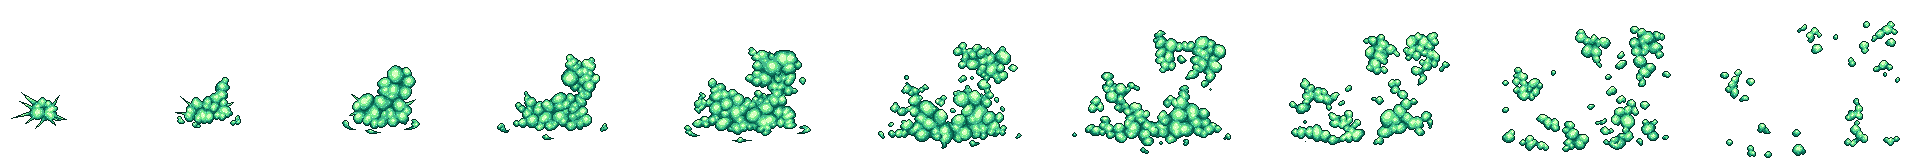
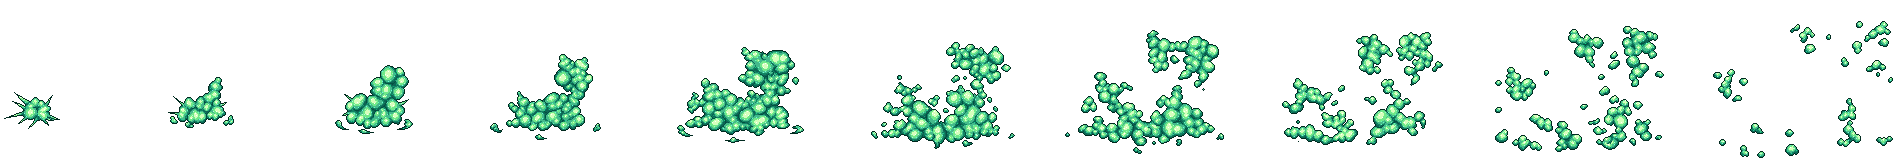
좀비중간보스 독 장판 스킬 구현

diff --git a/zombie_boss.py b/zombie_boss.py
@@ -7,6 +7,7 @@ import server
 from state_machine import StateMachine
 from coin import Coin
 from food import Food
+from poison import Poison
 
 # 보스 이동 속도 및 설정
 PIXEL_PER_METER = (10.0 / 0.3)
@@ -168,28 +169,68 @@ class BossAttack:
             return l - 20, b, r - 20, t
 
 
+# zombie_boss.py 상단에 import 추가
+from poison import Poison
+
+
+# ... (기존 코드 생략) ...
+
 class BossSkill:
     def __init__(self, boss):
         self.boss = boss
         self.image = load_image('./적/좀비중간보스/Poison.png')
         self.frames = BOSS_ANIMATION_DATA['Poison']
+        self.has_spawned = False
 
     def enter(self, e):
         self.boss.dir = 0
         self.boss.frame = 0.0
         self.boss.last_skill_time = get_time()
+        self.has_spawned = False
 
     def do(self):
         self.boss.frame = (self.boss.frame + FRAMES_PER_ACTION * ACTION_PER_TIME * game_framework.frame_time)
+
+        # 애니메이션 중간쯤(예: 프레임 3)에 독 생성
+        if int(self.boss.frame) == 3 and not self.has_spawned:
+            self.spawn_poison()
+            self.has_spawned = True
+
         if self.boss.frame >= len(self.frames):
             self.boss.frame = len(self.frames) - 1
             self.boss.state_machine.handle_state_event(('TIMEOUT', None))
 
-    def exit(self, e): pass
+    def exit(self, e):
+        pass
 
-    def draw(self): self.boss.draw_image(self.image, self.frames)
+    def draw(self):
+        self.boss.draw_image(self.image, self.frames)
 
-    def get_bb(self): return self.boss.get_bb_rect()
+    def get_bb(self):
+        return self.boss.get_bb_rect()
+
+    def spawn_poison(self):
+        import random
+        # 플레이어(girl)의 현재 위치를 타겟으로 설정
+        target_x = self.boss.girl.x
+
+        # 3개 정도의 독 장판을 플레이어 주변에 생성
+        for _ in range(3):
+            # 플레이어 위치 기준 ±100 범위 내 랜덤 생성
+            offset = random.randint(-100, 100)
+            spawn_x = target_x + offset
+
+            # 맵 밖으로 나가지 않도록 clamp (맵 크기 0~1600 가정)
+            spawn_x = clamp(50, spawn_x, 1550)
+
+            # 바닥 높이 (Girl의 바닥 y값인 150보다 살짝 아래로 조정하여 자연스럽게)
+            spawn_y = 130
+
+            poison = Poison(spawn_x, spawn_y)
+            game_world.add_object(poison, 4)
+
+            # 생성된 독 객체를 충돌 그룹에 등록
+            game_world.add_collision_pair('girl:poison', None, poison)
 
 
 class BossHurt:

diff --git a/poison.py b/poison.py
@@ -1,0 +1,45 @@
+from pico2d import *
+import game_world
+import game_framework
+
+
+class Poison:
+    image = None
+    sizes = [(0,65), (163,74), (330,86), (484,120),(671,136),
+             (866,154),(1058,169),(1275,171),(1488,180),(1706,193)]
+
+    def __init__(self, x, y, duration=3.0, damage=5):
+        self.x, self.y = x, y
+        self.duration = duration
+        self.damage = damage
+        self.frame = 0.0
+
+        if Poison.image is None:
+            Poison.image = load_image('./이펙트/독/Posion.png')
+
+    def update(self):
+        self.x += game_world.scroll_speed * game_framework.frame_time
+
+        self.frame = (self.frame + 5.0 * game_framework.frame_time) % len(self.sizes)
+
+        self.duration -= game_framework.frame_time
+        if self.duration <= 0:
+            game_world.remove_object(self)
+
+    def draw(self):
+        idx = int(self.frame)
+        if idx >= len(self.sizes): idx = 0
+
+        left, width = self.sizes[idx]
+        bottom = 0
+        height = 158
+
+        Poison.image.clip_draw(left, bottom, width, height, self.x, self.y)
+
+        draw_rectangle(*self.get_bb())
+
+    def get_bb(self):
+        return self.x - 100, self.y - 60, self.x + 100, self.y + 60
+
+    def handle_collision(self, group, other):
+        pass

diff --git a/girl.py b/girl.py
@@ -566,6 +566,7 @@ class Girl:
 
         self.last_attack_time = 0.0
         self.attack_cooldown = 0.5
+        self.last_poison_time = 0.0
         self.last_hit_time = 0.0
         self.hit_cooldown = 0.5
 
@@ -768,6 +769,31 @@ class Girl:
             return
 
         if current_time < self.buff_end_time:
+            return
+
+        if group == 'girl:poison':
+            if current_time - self.last_poison_time < 0.5:
+                return
+
+            dmg_multiplier = 1.0
+            if get_time() < self.buffs['defense']['timer']:
+                dmg_multiplier = self.buffs['defense']['value']
+
+            damage = 0
+            if hasattr(other, 'damage'):
+                damage = other.damage * dmg_multiplier
+            else:
+                damage = 5 * dmg_multiplier
+
+            self.hp -= damage
+            self.last_poison_time = current_time
+
+            print(f"독 데미지! HP: {self.hp}")
+
+            if self.hp <= 0:
+                self.hp = 0
+                self.state_machine.handle_state_event(('HP_IS_ZERO', None))
+
             return
 
         if current_time - self.last_hit_time < self.hit_cooldown:

diff --git a/play_mode.py b/play_mode.py
@@ -62,6 +62,7 @@ def init():
     game_world.add_collision_pair('fire:girl', None, girl)
     game_world.add_collision_pair('girl:coin', girl, None)
     game_world.add_collision_pair('girl:food', girl, None)
+    game_world.add_collision_pair('girl:poison', girl, None)
 
     font = load_font('ENCR10B.TTF', 16)
     inventory_font = load_font('ENCR10B.TTF', 25)
@@ -102,6 +103,7 @@ def init():
 
     if item_info_font is None:
         item_info_font = load_font('ChangwonDangamRound.ttf', 15)
+
 
     hovered_item_info = None
 

diff --git a/stage2_mode.py b/stage2_mode.py
@@ -75,6 +75,7 @@ def init():
     game_world.add_collision_pair('fire:girl', None, girl)
     game_world.add_collision_pair('girl:coin', girl, None)
     game_world.add_collision_pair('girl:food', girl, None)
+    game_world.add_collision_pair('girl:poison', girl, None)
 
     font = load_font('ENCR10B.TTF', 16)
     inventory_font = load_font('ENCR10B.TTF', 25)
